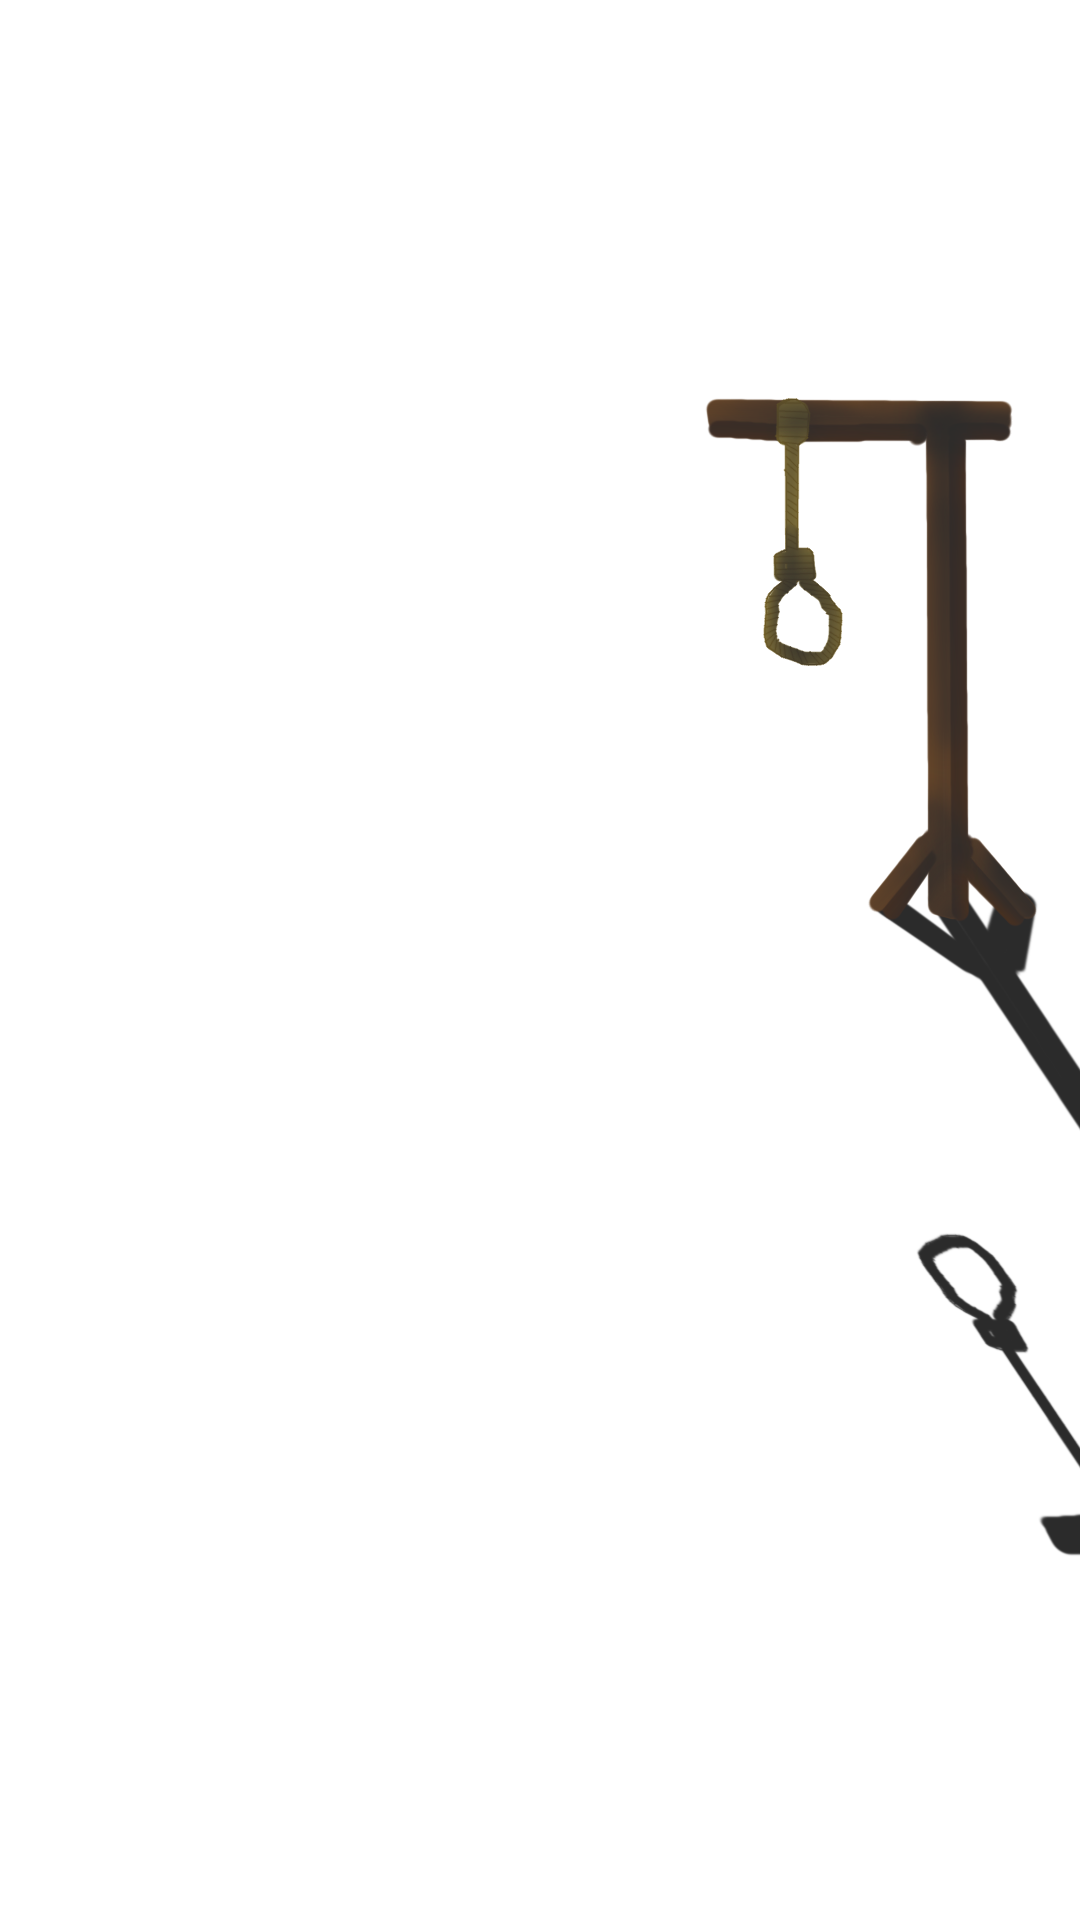
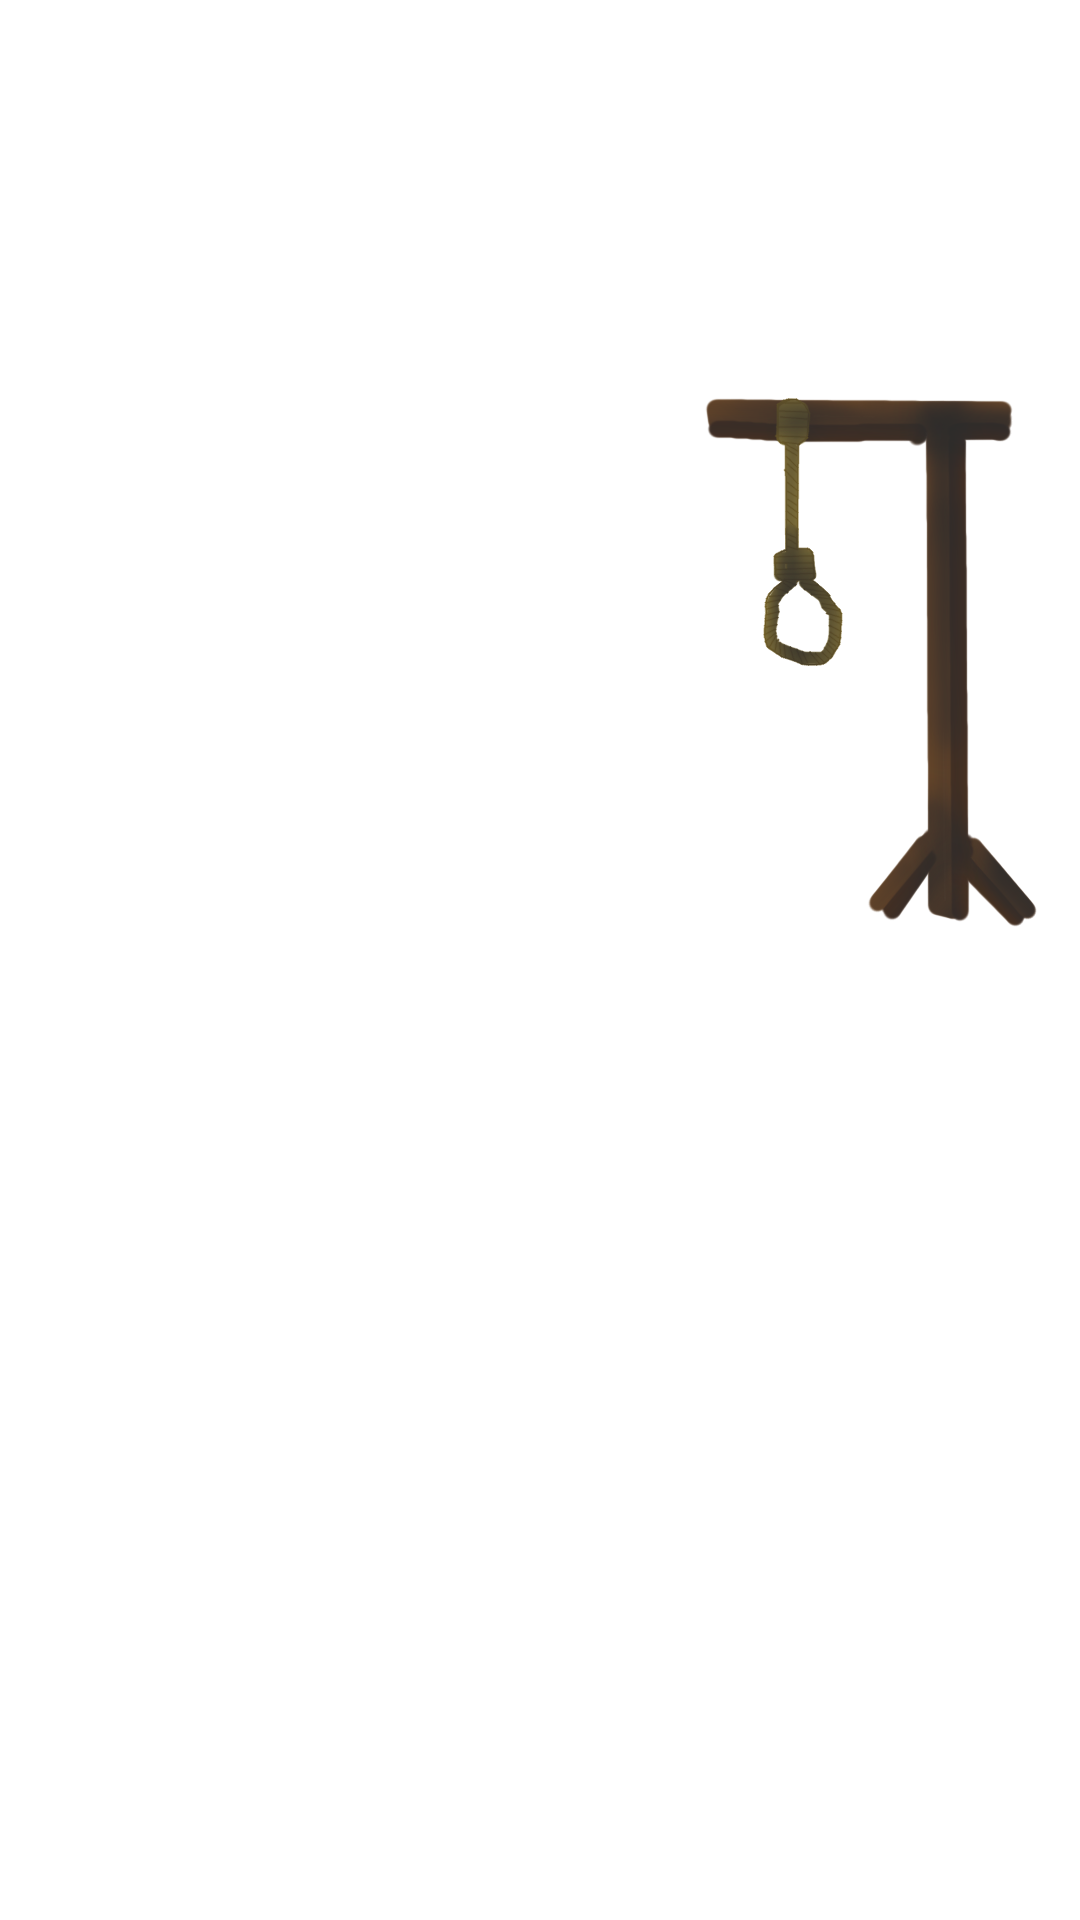
shadow fixes

Changed region(s): [[0.825, 0.4688, 1.0, 0.5938], [0.8556, 0.625, 0.9472, 0.7188], [0.9472, 0.7188, 1.0, 0.8125]]

diff --git a/scr/screens/GamePage.jsx b/scr/screens/GamePage.jsx
@@ -172,42 +172,36 @@ const GamePage = ({route}) => {
 
 
   const renderGuessedCharacters = () => {
-  const guessedCharacters = guessedChar.map((guessChar, index) => {
-    if (guessChar === ' ') {
-      return <Text key={index} style={styles.space}>{guessChar}</Text>; // Render space
-    } else if (guessChar === '') {
-      return null; // Skip rendering for null values
-    } else {
-      return <Text key={index} style={styles.innerText}>{guessChar}</Text>; // Render character
+    const guessedCharacters = guessedChar.map((guessChar, index) => {
+      if (guessChar === ' ') {
+        return <Text key={index} style={styles.space}>{'\n'}</Text>; // Start a new line for space
+      } else if (guessChar === '') {
+        return <Text key={index} style={styles.innerText}>{''}</Text>; // Render an empty space for null values
+      } else {
+        return <Text key={index} style={styles.innerText}>{guessChar}</Text>;
+      }
+    });
+  
+    const lines = [];
+    let line = [];
+    guessedCharacters.forEach((char, index) => {
+      if (char.props.children === '\n') {
+        if (line.length > 0 && index < guessedCharacters.length - 1) {
+          lines.push(<View key={index} style={{ flexDirection: 'row' }}>{line}</View>);
+          line = [];
+        }
+      } else {
+        line.push(char);
+      }
+    });
+  
+    if (line.length > 0) {
+      lines.push(<View key={guessedCharacters.length} style={{ flexDirection: 'row' }}>{line}</View>);
     }
-  });
-
-  const lines = [];
-  let line = [];
-  guessedCharacters.forEach((char, index) => {
-    if (char === null || char.props.children === ' ') {
-      lines.push(<View key={index} style={{ flexDirection: 'row' }}>{line}</View>);
-      line = [];
-    } else {
-      line.push(char);
-    }
-  });
-
-  if (line.length > 0) {
-    lines.push(<View key={guessedCharacters.length} style={{ flexDirection: 'row' }}>{line}</View>);
-  }
-
-  // Add space between words
-  const spacedLines = lines.map((line, index) => (
-    <React.Fragment key={index}>
-      {line}
-      <Text style={styles.space}> </Text>
-    </React.Fragment>
-  ));
-
-  return spacedLines;
-};
-
+  
+    return lines;
+  };
+  
   
   
   return (
@@ -229,6 +223,14 @@ const GamePage = ({route}) => {
           }}>
           {handleGameEnd()}
         </View>
+
+        <View style={{ position: 'absolute', top: '3%', right: '-11%', zIndex: 0 }}>
+          <Image source = {require('../layouts/assets/Gallows-shadow.png')} style={{ width: 600, height: 600 }} />
+        </View>
+        <View style={{ position: 'absolute', top: '1%', right: '-11%', zIndex: 0 }}>
+          <Image source = {require('../layouts/assets/Gallows-shadow2.png')} style={{ width: 600, height: 600 }} />
+        </View>
+        
         <View 
         style= {{
           justifyContent: 'center',
@@ -237,6 +239,7 @@ const GamePage = ({route}) => {
           right: '-26%',
           top: '17%',
           transform: [{translateX: -50}, {translateY: -50}],
+          position: 'absolute',
         
         }}>
           <Image
@@ -246,6 +249,7 @@ const GamePage = ({route}) => {
             }}
           />
         </View>
+        
 
         {Array.from({length: maxLives - life}, (_, index) => (
           <View
@@ -265,7 +269,7 @@ const GamePage = ({route}) => {
           </View>
         ))}
 
-        <View style={[styles.outer, {marginTop: '40%'}]}>
+        <View style={[styles.outer, {marginTop: '60%'}]}>
           <View style={[styles.container, {flexDirection: 'column'}]}>
             <View style={styles.inner}>{renderGuessedCharacters()}</View>
           </View>
